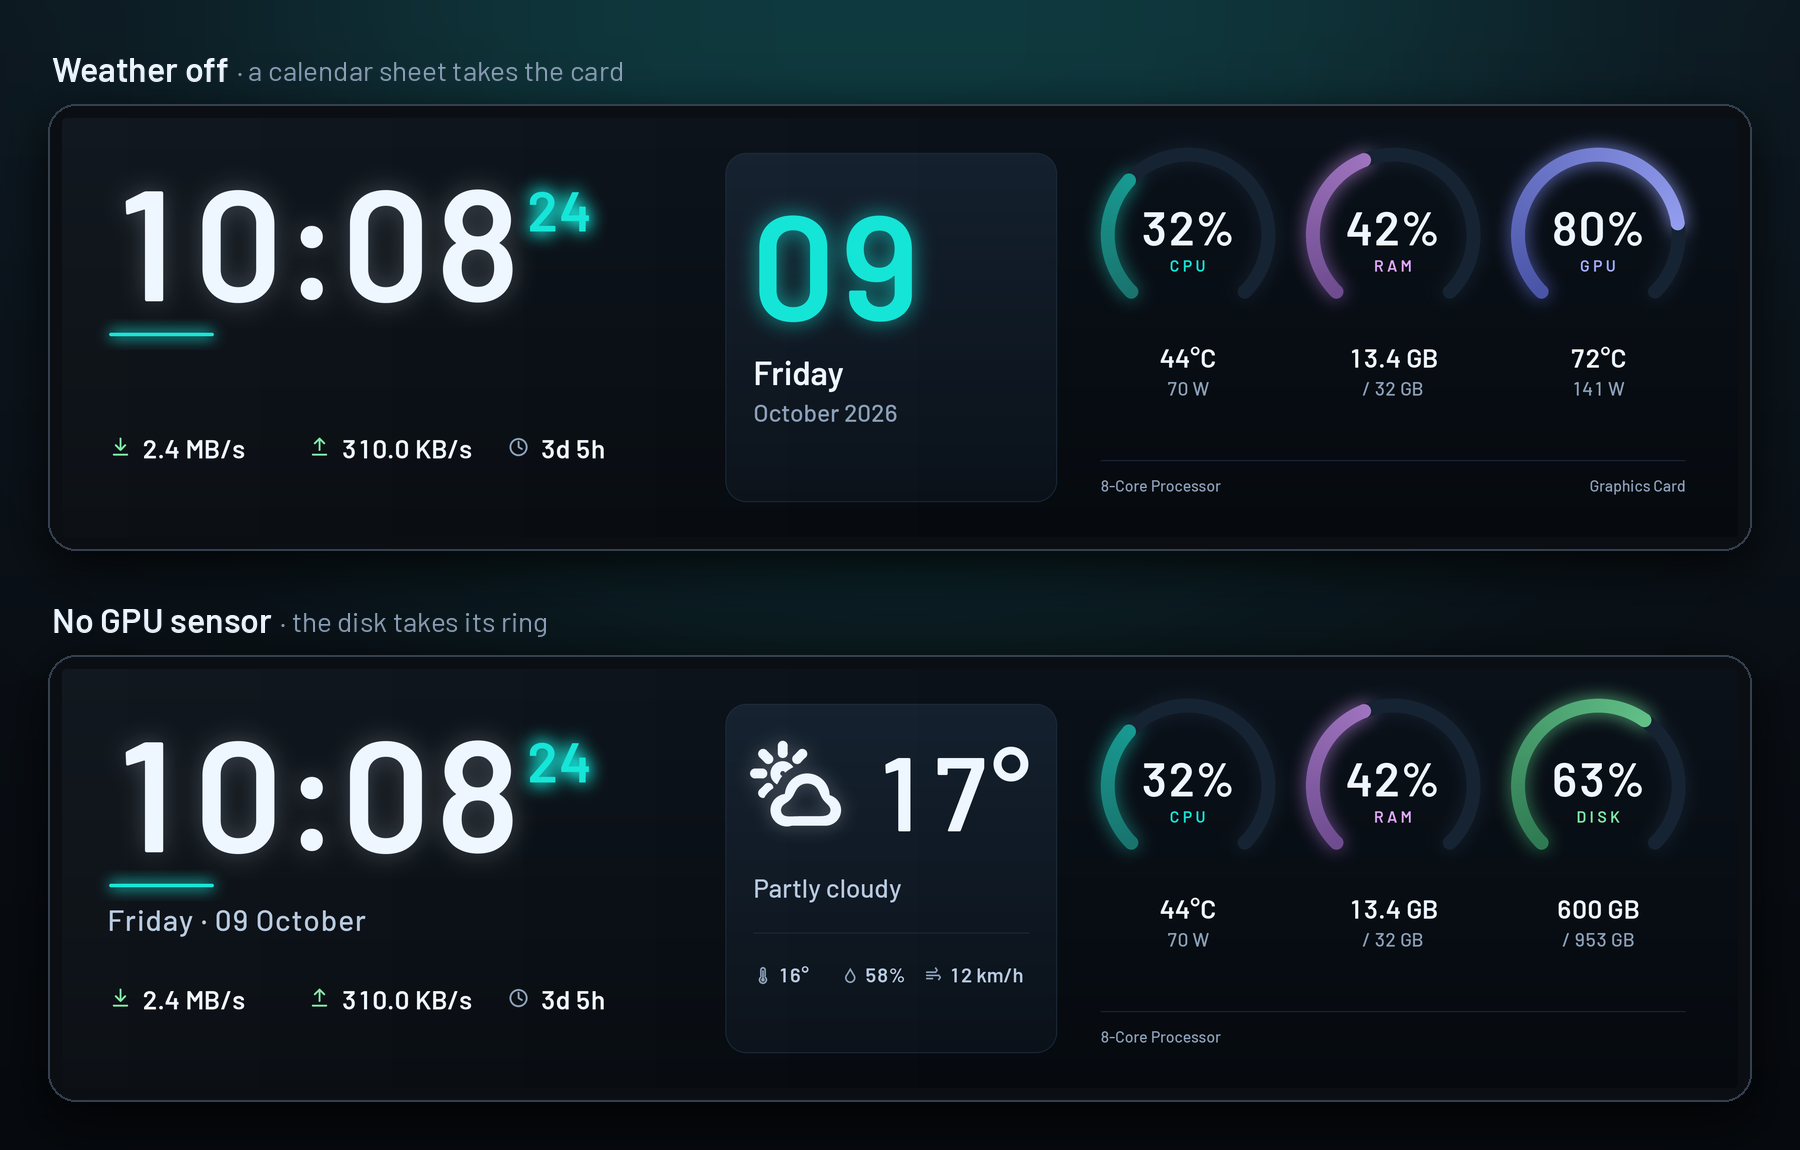
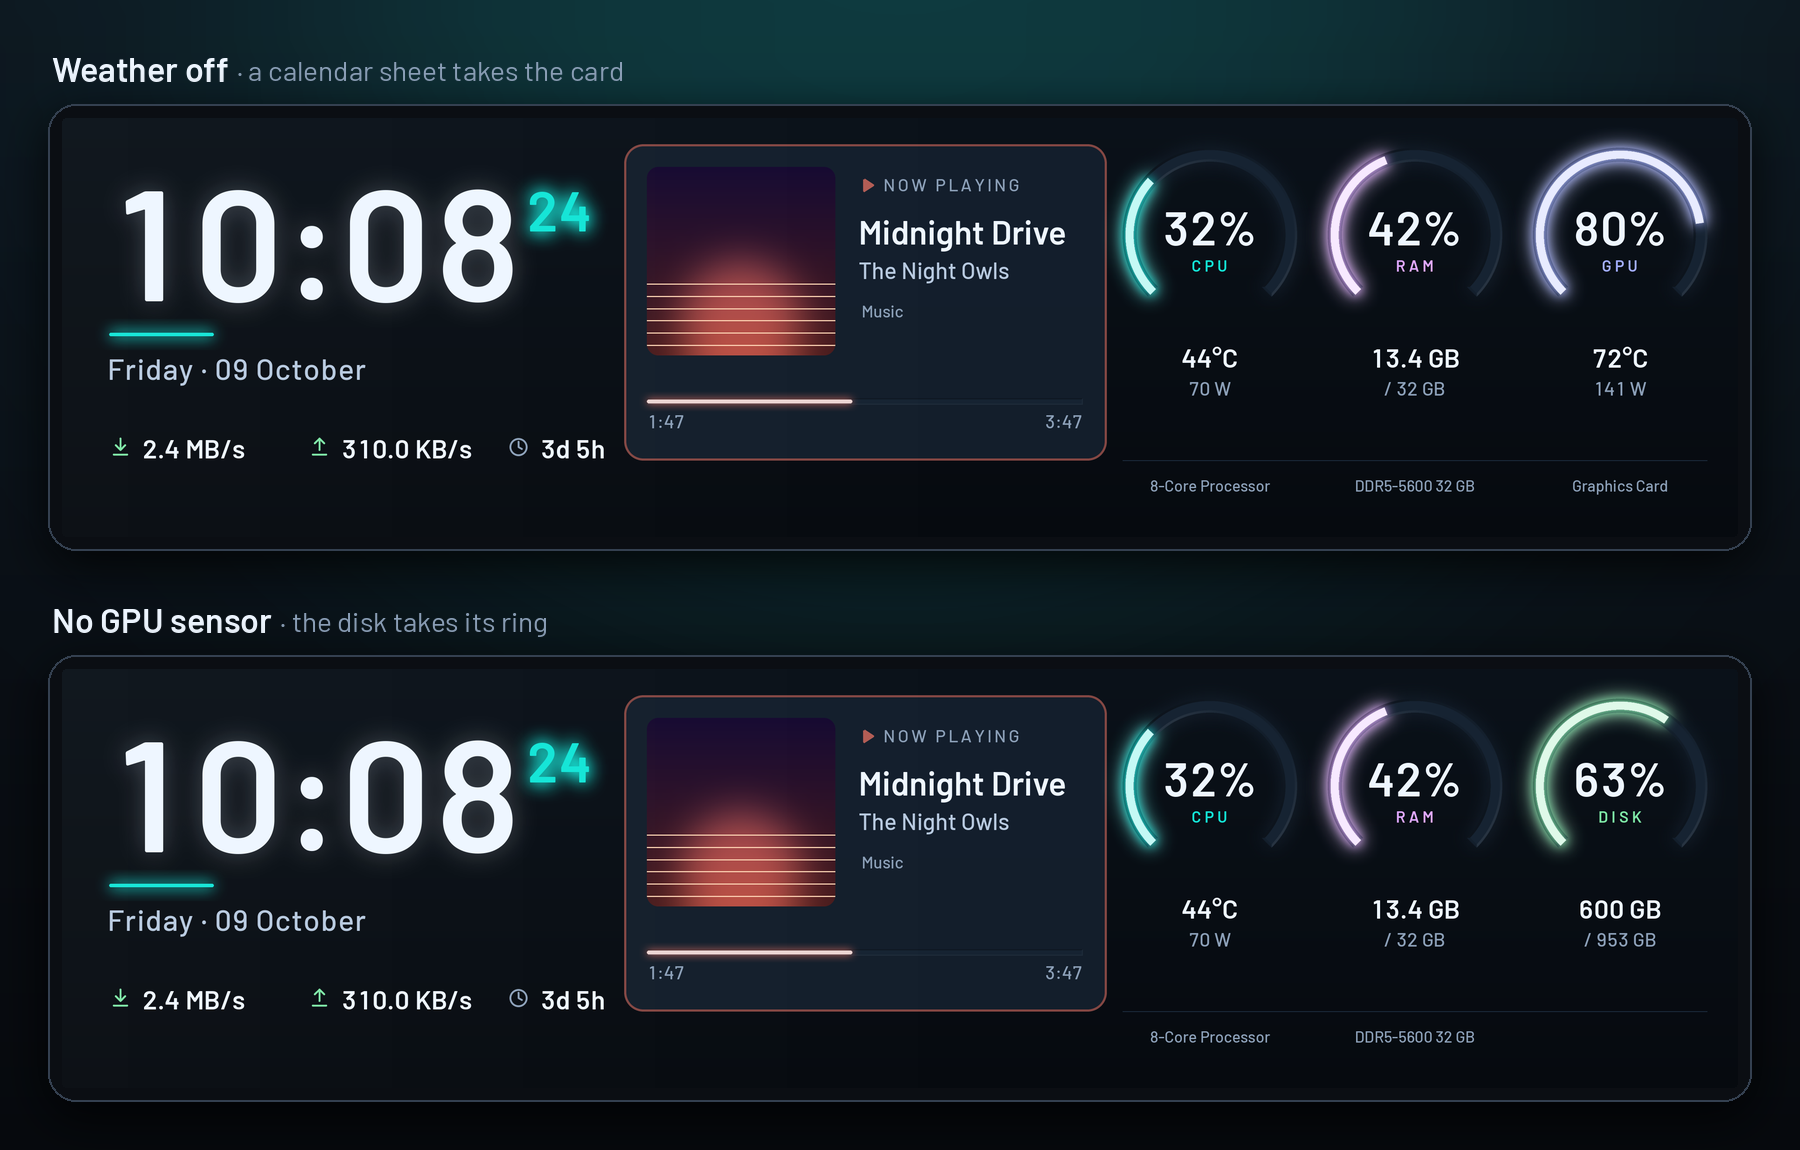
README and website: Lumen on top, Libre Panel's own themes first
The first picture of the README and the website, the gallery's bar and
the social preview show Lumen instead of Studio and SPUR II, and the
README's theme table lists Libre Panel's own themes first, with SPUR II's
screens in a table of their own below as the legacy set they are. The
pictures of Studio and Libre Default show them as they are now.

diff --git a/site/index.html b/site/index.html
@@ -149,7 +149,7 @@
       </div>
       <p class="fineprint">Windows · Linux — GPL-3.0 — no account, no cloud, no vendor app</p>
       <img class="shot" src="images/hero.png" width="2000" height="628"
-        alt="The Studio theme on a 9.2 inch bar: a large clock, the local weather in a card, and rings for CPU, RAM and GPU">
+        alt="Lumen, Libre Panel's own theme, on a 9.2 inch bar: what is playing with its cover, the time with the load of the last minute and the fans, and lit rings for CPU, GPU and RAM named after the hardware">
     </div>
   </div>
 
@@ -236,11 +236,12 @@
     <div class="wrap">
       <div class="kicker">Built in</div>
       <h2>Seven themes, from 0.96" to 9.2"</h2>
-      <p class="intro">Glow, soft gradients, smooth history graphs, 35 line icons
-        with live weather symbols, and values that glide instead of jumping. Every
-        theme moves to any other panel size in one click.</p>
+      <p class="intro">Values as light in milled grooves, a card that shows what is
+        playing or the weather with moving symbols, graphs that scroll and values that
+        glide instead of jumping. Every theme moves to any other panel size in one
+        click.</p>
       <img src="images/gallery.png" width="2000" height="1062" loading="lazy"
-        alt="Built-in themes: SPUR II, Slate, Libre Default, Orbit, Column and Pico on their panels">
+        alt="Built-in themes: Lumen, Slate, Libre Default, Orbit, Column and Pico on their panels">
     </div>
   </section>
 

diff --git a/tools/readme_images.py b/tools/readme_images.py
@@ -158,9 +158,9 @@ def text_center(draw, cx, y, text, fnt, fill):
     draw.text((cx - w / 2, y), text, font=fnt, fill=fill)
 
 
-def hero(studio2x: Image.Image) -> Image.Image:
-    """Studio on its 9.2" bar."""
-    screen = studio2x.resize((1920, 480), Image.LANCZOS)
+def hero(bar2x: Image.Image) -> Image.Image:
+    """Lumen, Libre Panel's signature screen, on its 9.2" bar."""
+    screen = bar2x.resize((1920, 480), Image.LANCZOS)
     border = 18
     dev = device(screen, border)
     m = shadow_margin(border)
@@ -176,9 +176,9 @@ def gallery(shots: dict[str, Image.Image]) -> Image.Image:
     label, sub = font("Barlow-SemiBold", 30), font("Barlow-Regular", 24)
     m = shadow_margin(border)
 
-    # row 1: SPUR II across the width
+    # row 1: Lumen across the width
     bar_w = w - 2 * margin - 2 * border
-    bar = shots["spur-ii"].resize((bar_w, bar_w // 4), Image.LANCZOS)
+    bar = shots["lumen"].resize((bar_w, bar_w // 4), Image.LANCZOS)
     # row 2: the smaller panels at one screen height (Pico larger than life)
     hh = 270
     row = [
@@ -210,7 +210,7 @@ def gallery(shots: dict[str, Image.Image]) -> Image.Image:
     dev = device(bar, border)
     img.alpha_composite(dev, (margin - m, y - m))
     cy = y + row1_h + 22
-    text_center(draw, w / 2, cy, "SPUR II", label, TX_1)
+    text_center(draw, w / 2, cy, "Lumen", label, TX_1)
     text_center(draw, w / 2, cy + 38, '8.8" / 9.2" bar · 1920×480', sub, TX_3)
 
     y = margin + row1_h + caption_h + gap // 2
@@ -226,7 +226,7 @@ def gallery(shots: dict[str, Image.Image]) -> Image.Image:
     return img.convert("RGB")
 
 
-def social(studio2x: Image.Image) -> Image.Image:
+def social(bar2x: Image.Image) -> Image.Image:
     """1280x640 for the repository's social preview."""
     w, h = 1280, 640
     img = background(w, h, glow=(0.5, 1.0)).convert("RGBA")
@@ -243,7 +243,7 @@ def social(studio2x: Image.Image) -> Image.Image:
         fill=TX_3,
     )
     border = 10
-    screen = studio2x.resize((1120, 280), Image.LANCZOS)
+    screen = bar2x.resize((1120, 280), Image.LANCZOS)
     dev = device(screen, border)
     m = shadow_margin(border)
     img.alpha_composite(dev, ((w - dev.width) // 2, 304 - m))
@@ -628,13 +628,13 @@ def main() -> None:
     parser.add_argument("out", nargs="?", default="docs/images", type=Path)
     out = parser.parse_args().out
     out.mkdir(parents=True, exist_ok=True)
-    ids = ["studio", "spur-ii", "libre-default", "orbit", "slate", "column", "pico"]
+    ids = ["lumen", "studio", "spur-ii", "libre-default", "orbit", "slate", "column", "pico"]
     for theme_id in ids:  # true pixels, as the panel shows them
         render(theme_id).save(out / f"{theme_id}.png", optimize=True)
     big = {theme_id: render(theme_id, 2) for theme_id in ids}  # sharp when scaled
-    hero(big["studio"]).save(out / "hero.png", optimize=True)
+    hero(big["lumen"]).save(out / "hero.png", optimize=True)
     gallery(big).save(out / "gallery.png", optimize=True)
-    social(big["studio"]).save(out / "social-preview.png", optimize=True)
+    social(big["lumen"]).save(out / "social-preview.png", optimize=True)
     weather = tuple(k for k in snapshot().readings if k.startswith("weather."))
     gpu = tuple(k for k in snapshot().readings if k.startswith("gpu."))
     adapts(

diff --git a/README.md b/README.md
@@ -13,7 +13,7 @@
   <img alt="Windows, Linux" src="https://img.shields.io/badge/runs_on-Windows%20%C2%B7%20Linux-E0A8FF?labelColor=0A1119">
 </p>
 
-<p align="center"><img src="docs/images/hero.png" alt="The Studio theme on a 9.2 inch bar: a large clock, the local weather in a card, and rings for CPU, RAM and GPU" width="100%"></p>
+<p align="center"><img src="docs/images/hero.png" alt="Lumen, Libre Panel's own theme, on a 9.2 inch bar: what is playing with its cover, the time with the load of the last minute and the fans, and lit rings for CPU, GPU and RAM named after the hardware" width="100%"></p>
 
 <p align="center">
   <a href="https://github.com/syntensa/libre-panel/releases/latest"><b>Download</b></a> ·
@@ -28,9 +28,10 @@ temperatures, memory, network and the weather outside, in a design you pick
 or build yourself. It runs quietly in the tray on Windows and Linux.
 No account, no cloud, no vendor app.
 
-- **Looks good out of the box.** Seven built-in themes from the 0.96" stick
-  to the 9.2" bar, with glow, soft gradients, smooth graphs and values that
-  glide instead of jumping.
+- **Looks good out of the box.** Seven themes of its own from the 0.96" stick
+  to the 9.2" bar: values as light in milled grooves, a card that shows what
+  is playing or the weather with moving symbols, graphs that scroll and
+  values that glide instead of jumping.
 - **Fits your machine without editing.** The names your own CPU and GPU
   report, the weather for the place in *your* config, dates in English or
   German, and sections that step aside where a sensor is missing.
@@ -122,11 +123,23 @@ Calendars, Home Assistant, MQTT and PresentMon are set up in the
 
 ## Themes
 
-<p align="center"><img src="docs/images/gallery.png" alt="Built-in themes: SPUR II (1920x480), Slate (5 inch), Libre Default (3.5 inch), Orbit (round), Column (3.5 inch portrait) and Pico (0.96 inch)" width="100%"></p>
+<p align="center"><img src="docs/images/gallery.png" alt="Built-in themes: Lumen (1920x480), Slate (5 inch), Libre Default (3.5 inch), Orbit (round), Column (3.5 inch portrait) and Pico (0.96 inch)" width="100%"></p>
 
 | Theme | Panel | |
 |---|---|---|
-| `studio` | 8.8" / 9.2" bar (1920×480) | after SPUR II's Studio screen: large clock, weather for your location, CPU, RAM and GPU rings named after your hardware |
+| `lumen` | 8.8" / 9.2" bar (1920×480) | Libre Panel's signature screen: what is playing (the weather with its moving symbols when nothing is, a calendar sheet when there is neither), the time with the load of the last minute scrolling as light and the fans turning, lit rings for CPU, GPU and RAM named after your hardware, and the network with a download in its place while one runs |
+| `studio` | 8.8" / 9.2" bar (1920×480) | a calm screen: large clock, a card with what is playing, else the weather for your location, else the day, and lit CPU, RAM and GPU rings named after your hardware |
+| `slate` | 5" (800×480) | four cards: CPU, GPU, memory, network |
+| `libre-default` | 3.5" (480×320) | two lit rings, temperature, disk, network and a history that scrolls; what is playing, the weather or the day in the corner |
+| `orbit` | round 2.1" / 2.8" (480×480) | three concentric rings around a large clock |
+| `column` | 3.5" portrait (320×480) | clock, resource rows and network |
+| `pico` | 0.96" (160×80) | CPU with temperature and memory, large numbers and slim bars |
+
+SPUR II, the private project Libre Panel grew out of, lives on as a legacy
+set of screens for the 8.8" and 9.2" bars (`"collection": "SPUR II"`):
+
+| Theme | Panel | |
+|---|---|---|
 | `spur-ii` | 8.8" / 9.2" bar (1920×480) | the SPUR II layout: load charts, four sections, light on every value |
 | `spur-classic` | 8.8" / 9.2" bar (1920×480) | SPUR II's classic screen as it is now: raised load curves in flat frames, RAM and network in staggered boxes, values as light in milled grooves, the faceted wordmark, turning fans and the clock above, the grid, one light and depth dust |
 | `spur-horizon` | 8.8" / 9.2" bar (1920×480) | SPUR II's Horizon: the CPU's load grows up from a midline and the GPU's down from it, 70 seconds side by side, with tiles for values, network and music below |
@@ -136,11 +149,6 @@ Calendars, Home Assistant, MQTT and PresentMon are set up in the
 | `spur-cockpit` | 8.8" / 9.2" bar (1920×480) | SPUR II's Cockpit: the CPU's and GPU's load as two equal charts with the RAM as a ring, and CPU, GPU, memory and network in four equal columns |
 | `spur-studio` | 8.8" / 9.2" bar (1920×480) | SPUR II's Studio screen, made of the cards: a large clock with the seconds and the date, the network and the volume on the left, what plays (the weather when nothing does) in the middle, with a line of light between the cards, and rings for the CPU, GPU and RAM on the right |
 | `round-report` | 8.8" / 9.2" bar (1920×480) | SPUR II's round report, what the `memory` service shows after a game: the average frame rate against your earlier rounds, the share of the round at each frame rate, who held the rate down, and the highest temperatures and power |
-| `slate` | 5" (800×480) | four cards: CPU, GPU, memory, network |
-| `libre-default` | 3.5" (480×320) | two rings, temperature, disk, network and history |
-| `orbit` | round 2.1" / 2.8" (480×480) | three concentric rings around a large clock |
-| `column` | 3.5" portrait (320×480) | clock, resource rows and network |
-| `pico` | 0.96" (160×80) | CPU with temperature and memory, large numbers and slim bars |
 
 Every theme moves to any other panel from the editor's panel menu. Themes
 are plain JSON plus images and fonts — see [docs/THEMES.md](docs/THEMES.md).
@@ -257,7 +265,7 @@ Other commands:
 libre-panel                         # panel + editor in a terminal (Ctrl+C stops)
 libre-panel editor                  # only the theme editor (--browser: in the browser)
 libre-panel run                     # only drive the panel
-libre-panel preview spur-ii -o spur.png   # render a theme to an image
+libre-panel preview lumen -o lumen.png    # render a theme to an image
 libre-panel models                  # all known panels and their resolutions
 libre-panel devices                 # which panel is connected?
 libre-panel doctor                  # check the panel end to end, write a report
